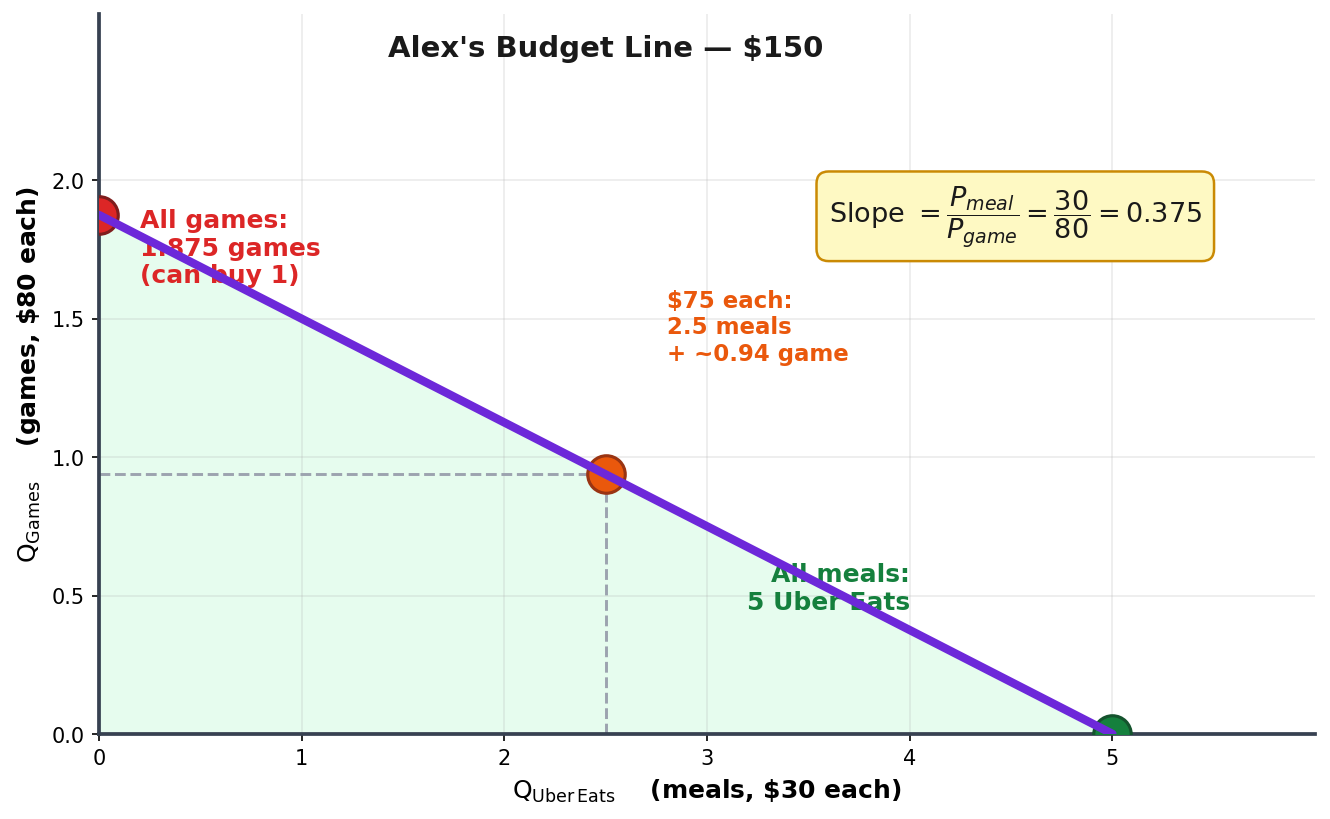
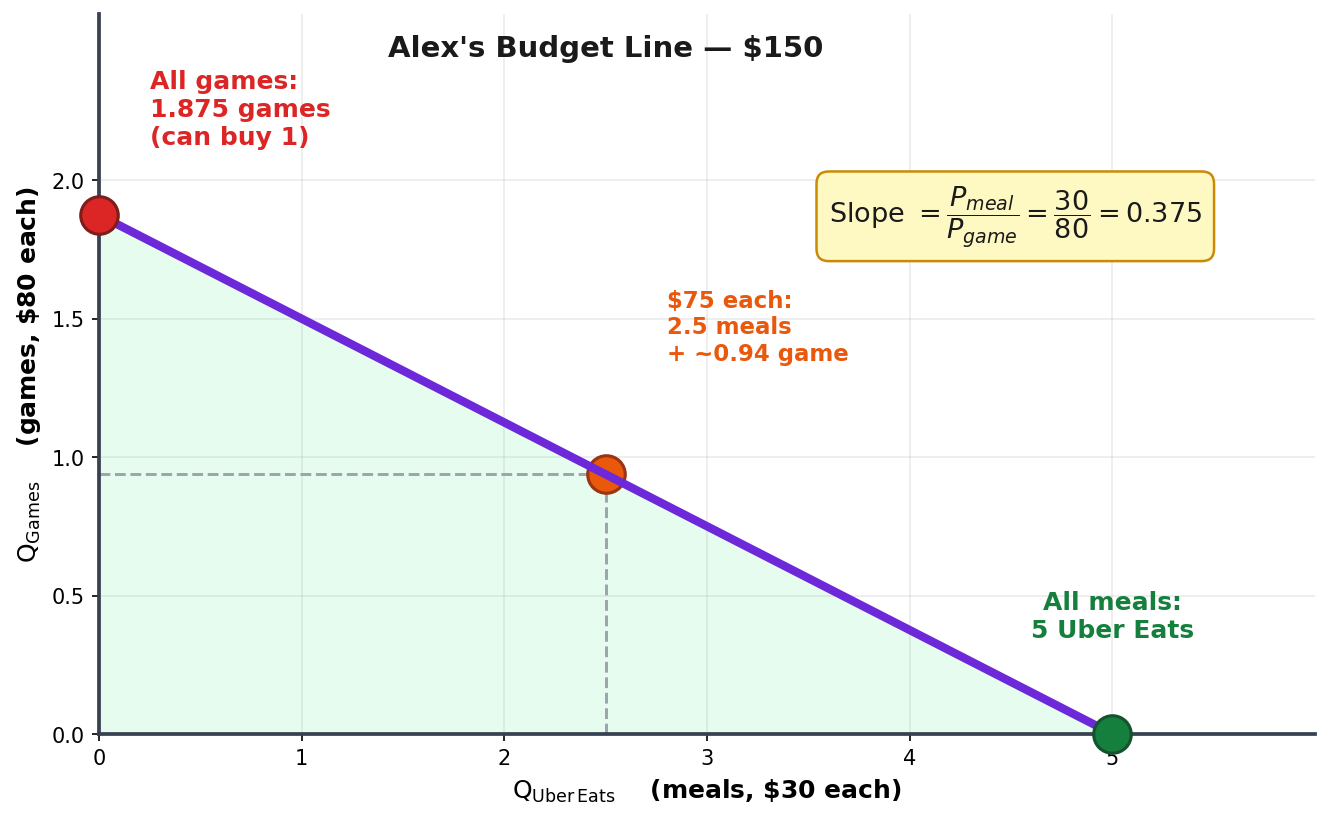
Ch8: keep axis-sitting markers fully visible + reposition Alex solution labels
- All 3 budget-line figures: endpoint markers now use clip_on=False +
  zorder=10 so the circles draw fully on top of the spines instead of
  being half-clipped by the axis bounds (the (0,4)/(16,0)/(0,1.875)/(5,0)
  points were sitting exactly on the spine lines and getting cut in half).
- figure_alex_solution.py: "All meals: 5 Uber Eats" label moved above the
  green dot (xytext y=0.45 → 0.35, ha center directly over the marker);
  "All games: 1.875 games (can buy 1)" label pushed up (xytext y=1.9 →
  2.4) so it no longer overlaps the dashed midpoint guides.

diff --git a/econ1116/ch08-consumer-choice/figures/figure_alex_solution.py b/econ1116/ch08-consumer-choice/figures/figure_alex_solution.py
@@ -16,17 +16,17 @@ ax.plot(x_line, y_line, color='#6d28d9', linewidth=4, zorder=7,
 # Affordable region — green tint below the line
 ax.fill([0, 5, 0], [0, 0, 1.875], color='#dcfce7', alpha=0.7, zorder=1)
 
-# Endpoint markers
-ax.plot(0, 1.875, 'o', color='#dc2626', markersize=18, zorder=6,
-        markeredgecolor='#7f1d1d', markeredgewidth=1.5)
+# Endpoint markers (clip_on=False so axis-sitting markers aren't half-cut)
+ax.plot(0, 1.875, 'o', color='#dc2626', markersize=18, zorder=10,
+        markeredgecolor='#7f1d1d', markeredgewidth=1.5, clip_on=False)
 ax.annotate('All games:\n1.875 games\n(can buy 1)', xy=(0, 1.875),
-            xytext=(0.2, 1.9), fontsize=12, weight='bold',
+            xytext=(0.25, 2.4), fontsize=12, weight='bold',
             color='#dc2626', ha='left', va='top')
 
-ax.plot(5, 0, 'o', color='#15803d', markersize=18, zorder=6,
-        markeredgecolor='#14532d', markeredgewidth=1.5)
-ax.annotate('All meals:\n5 Uber Eats', xy=(5, 0), xytext=(4.0, 0.45),
-            fontsize=12, weight='bold', color='#15803d', ha='right')
+ax.plot(5, 0, 'o', color='#15803d', markersize=18, zorder=10,
+        markeredgecolor='#14532d', markeredgewidth=1.5, clip_on=False)
+ax.annotate('All meals:\n5 Uber Eats', xy=(5, 0), xytext=(5, 0.35),
+            fontsize=12, weight='bold', color='#15803d', ha='center')
 
 # Midpoint-ish marker: 1 game + (150-80)/30 = 1 game + 2.33 meals
 # Pure midpoint by spending half on each: $75 → 0.94 games, $75 → 2.5 meals

diff --git a/econ1116/ch08-consumer-choice/figures/figure_lets_visualize.py b/econ1116/ch08-consumer-choice/figures/figure_lets_visualize.py
@@ -12,19 +12,19 @@ x_line = [0, 16]
 y_line = [4, 0]
 ax.plot(x_line, y_line, color='#6d28d9', linewidth=4, zorder=5)
 
-# Markers + labels
-ax.plot(0, 4, 'o', color='#dc2626', markersize=18, zorder=6,
-        markeredgecolor='#7f1d1d', markeredgewidth=1.5)
+# Markers + labels (clip_on=False so axis-sitting markers aren't half-cut)
+ax.plot(0, 4, 'o', color='#dc2626', markersize=18, zorder=10,
+        markeredgecolor='#7f1d1d', markeredgewidth=1.5, clip_on=False)
 ax.annotate('4 lbs Beef', xy=(0, 4), xytext=(0.6, 4.25),
             fontsize=14, weight='bold', color='#dc2626', ha='left')
 
-ax.plot(8, 2, 'o', color='#ea580c', markersize=18, zorder=6,
-        markeredgecolor='#9a3412', markeredgewidth=1.5)
+ax.plot(8, 2, 'o', color='#ea580c', markersize=18, zorder=10,
+        markeredgecolor='#9a3412', markeredgewidth=1.5, clip_on=False)
 ax.annotate('2 lbs Beef\n+ 8 Avocados', xy=(8, 2), xytext=(8.4, 2.6),
             fontsize=12, weight='bold', color='#ea580c')
 
-ax.plot(16, 0, 'o', color='#15803d', markersize=18, zorder=6,
-        markeredgecolor='#14532d', markeredgewidth=1.5)
+ax.plot(16, 0, 'o', color='#15803d', markersize=18, zorder=10,
+        markeredgecolor='#14532d', markeredgewidth=1.5, clip_on=False)
 ax.annotate('16 Avocados', xy=(16, 0), xytext=(14.6, 0.45),
             fontsize=14, weight='bold', color='#15803d')
 

diff --git a/econ1116/ch08-consumer-choice/figures/figure_budget_regions.py b/econ1116/ch08-consumer-choice/figures/figure_budget_regions.py
@@ -30,14 +30,14 @@ ax.fill(not_affordable_x, not_affordable_y, color='#fee2e2', alpha=0.85, zorder=
 ax.plot(x_line, y_line, color='#6d28d9', linewidth=4, zorder=7,
         solid_capstyle='round')
 
-# Endpoint markers
-ax.plot(0, 4, 'o', color='#dc2626', markersize=18, zorder=6,
-        markeredgecolor='#7f1d1d', markeredgewidth=1.5)
+# Endpoint markers (clip_on=False so axis-sitting markers aren't half-cut)
+ax.plot(0, 4, 'o', color='#dc2626', markersize=18, zorder=10,
+        markeredgecolor='#7f1d1d', markeredgewidth=1.5, clip_on=False)
 ax.annotate('4 lbs Beef', xy=(0, 4), xytext=(0.6, 4.25),
             fontsize=13, weight='bold', color='#dc2626', ha='left')
 
-ax.plot(16, 0, 'o', color='#15803d', markersize=18, zorder=6,
-        markeredgecolor='#14532d', markeredgewidth=1.5)
+ax.plot(16, 0, 'o', color='#15803d', markersize=18, zorder=10,
+        markeredgecolor='#14532d', markeredgewidth=1.5, clip_on=False)
 ax.annotate('16 Avocados', xy=(16, 0), xytext=(14.4, 0.45),
             fontsize=13, weight='bold', color='#15803d')
 
